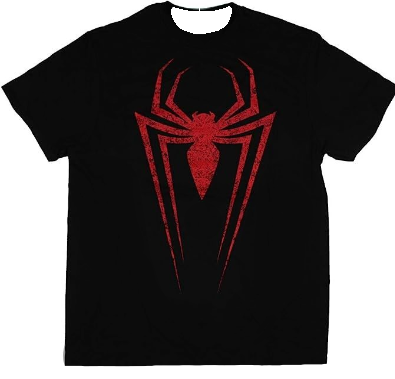
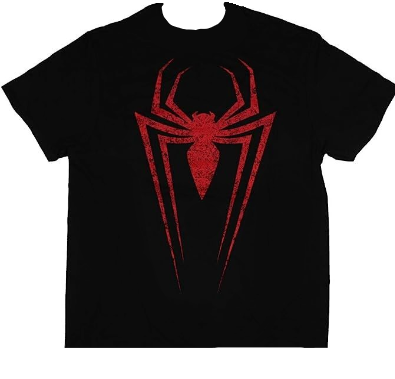
1

Changed region(s): [[0.1519, 0.8997, 0.8506, 0.9868], [0.3949, 0.0, 0.6076, 0.0871]]

diff --git a/bot.py b/bot.py
@@ -3221,7 +3221,7 @@ CLOTHING_SHOP_ITEMS = [
         "slot": "top",
         "scale": 150,
         "x": 313,
-        "y": 175,
+        "y": 185,
     },
 ]
 
